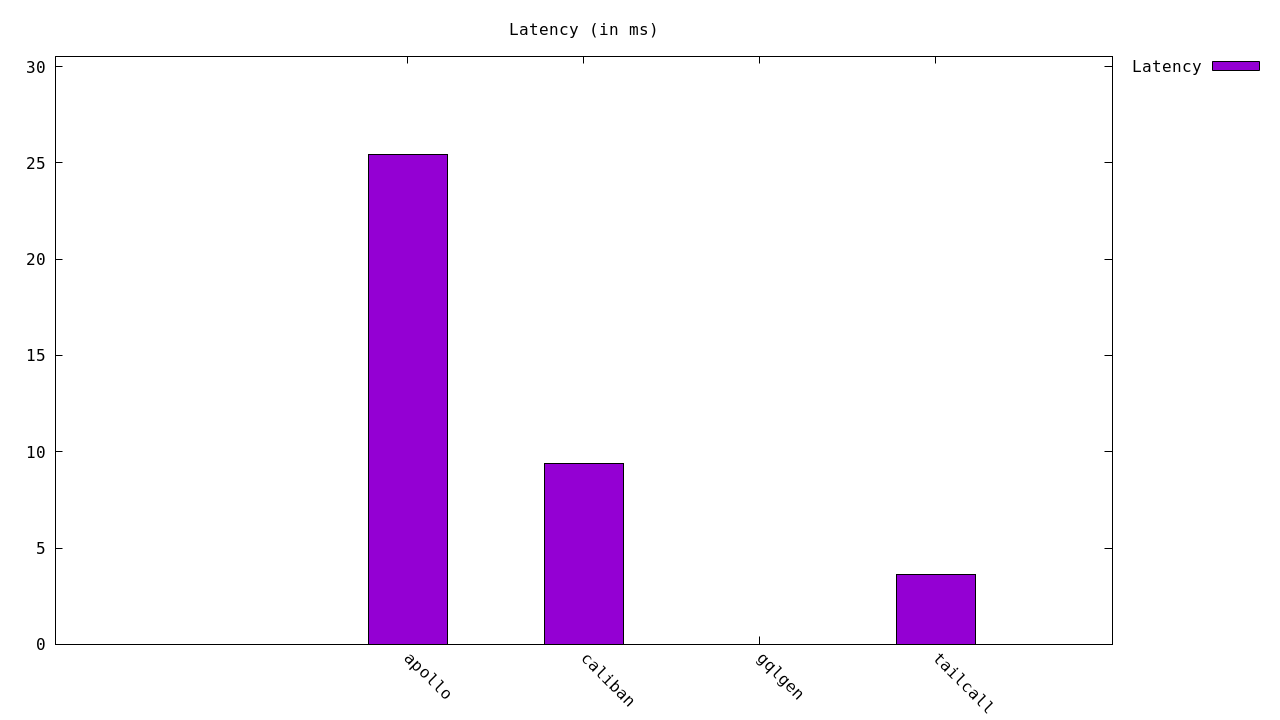
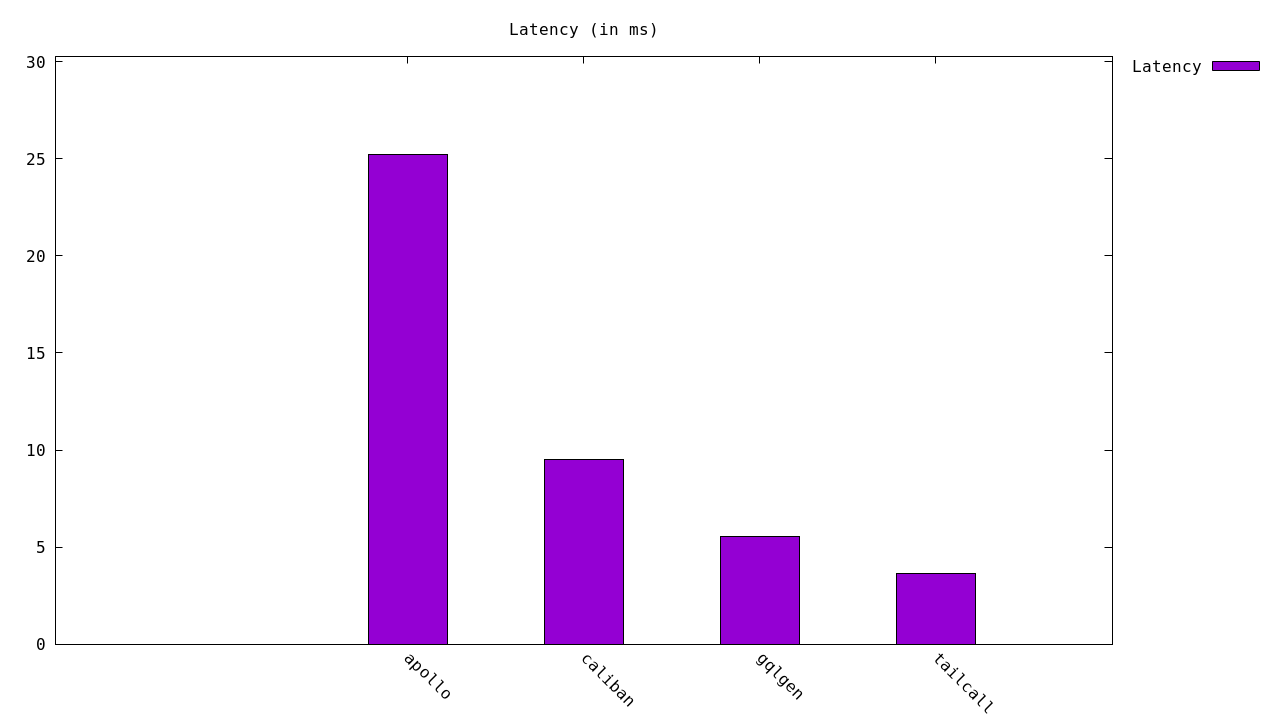
Update performance results in README.md

diff --git a/README.md b/README.md
@@ -46,10 +46,10 @@ Get started with the benchmarks:
 
 | Server | Requests/sec | Latency (ms) |
 |--------:|--------------:|--------------:|
-| [Tailcall] | `27,474.90` | `3.62` |
-| [Caliban] | `10,635.90` | `9.38` |
-| [Apollo GraphQL] | `3,955.24` | `25.44` |
-| [Gqlgen] | `-nan` | `-nan` |
+| [Tailcall] | `27,127.30` | `3.66` |
+| [Gqlgen] | `21,026.60` | `5.56` |
+| [Caliban] | `10,551.10` | `9.54` |
+| [Apollo GraphQL] | `3,997.65` | `25.22` |
 
 <!-- PERFORMANCE_RESULTS_END -->
 

diff --git a/results.md b/results.md
@@ -2,9 +2,9 @@
 
 | Server | Requests/sec | Latency (ms) |
 |--------:|--------------:|--------------:|
-| [Tailcall] | `27,474.90` | `3.62` |
-| [Caliban] | `10,635.90` | `9.38` |
-| [Apollo GraphQL] | `3,955.24` | `25.44` |
-| [Gqlgen] | `-nan` | `-nan` |
+| [Tailcall] | `27,127.30` | `3.66` |
+| [Gqlgen] | `21,026.60` | `5.56` |
+| [Caliban] | `10,551.10` | `9.54` |
+| [Apollo GraphQL] | `3,997.65` | `25.22` |
 
 <!-- PERFORMANCE_RESULTS_END -->
